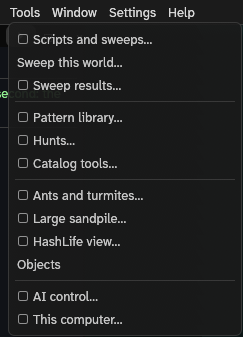
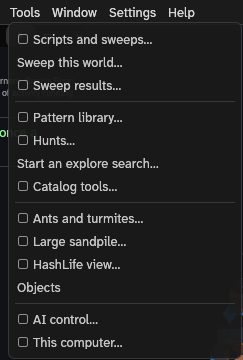
Book: closing windows from the keyboard, Ctrl+W, the arrows in setup's choices, and Tools -> Start an explore search... (#308, #309, #310)
- The keyboard guide: Esc in a floating pane and twice from a text box,
  Esc in a docked pane, Ctrl+W, the Close button last in Tab's order, and
  the arrows staying in their window and going one by one through setup's
  What it searches; its table remade by gen-shortcuts.py.
- Searching and the tour: Tools -> Start an explore search...; the tour's
  Tools menu picture redrawn (shots_tools_menu, headless).
- The changelog, How JETCARP is tested and the accessibility statement.
- MCP's copy of the book.

diff --git a/crates/jetcarp-mcp/resources/docs/guides/keyboard.md b/crates/jetcarp-mcp/resources/docs/guides/keyboard.md
@@ -31,15 +31,22 @@ menu is open.
 
 **Space** or **Enter** presses the button, ticks the box, chooses the item, or opens the list that
 has the keyboard; in an open list, the arrows move and Enter chooses. On a slider the arrows
-change its value; a number box takes typing once it has the keyboard.
+change its value; a number box takes typing once it has the keyboard. Elsewhere the arrows go to
+the nearest control that way, and stay in the window they start in: at the top of a floating
+window, ↑ leaves the keyboard where it is. In a list of check boxes, such as the setup window's
+*What it searches*, ↓ and ↑ go through the boxes one by one, as Tab and Shift+Tab do.
 
 **Esc** leaves a text box, closes a menu or a list, closes *Export animation* and the two
-confirmations, and closes the tool window whose control has the keyboard (Esc in one of its text
-boxes only leaves the box), the setup window among them. **Enter** confirms: *Export animation*
-opens with *Export…* holding the keyboard, each page of the setup window with its main button
-(*Next*, *Start*, *Close*), and each confirmation with its safe choice (*Keep it on*, *Save the
-softened version*). The photosensitive seizure warning waits for an answer: neither Esc nor Enter
-answers it for you.
+confirmations, and closes the tool window or floating pane whose control has the keyboard, the
+setup window among them. In one of its text boxes, the first Esc leaves the box and a second
+closes the window. In a docked pane, Esc takes the keyboard back to the grid. **Ctrl+W** (⌘W on
+macOS) closes the tool window or dialog that has the keyboard, from a text box too; in a window
+popped out to a window of its own, it brings it back into the main window, as closing it does.
+
+**Enter** confirms: *Export animation* opens with *Export…* holding the keyboard, each page of the
+setup window with its main button (*Next*, *Start*, *Close*), and each confirmation with its safe
+choice (*Keep it on*, *Save the softened version*). The photosensitive seizure warning waits for
+an answer: neither Esc nor Enter answers it for you.
 
 **The single-key shortcuts** (R, F, S, + and −) act whatever has the keyboard, except while you
 are typing in a text box; the function keys (F1, F6, F9 to F12) act even then. Space, Enter, Tab
@@ -47,6 +54,10 @@ and the arrows belong to the control that has the keyboard, so while one has it,
 rather than running the world: press Esc first, and Space runs and pauses again.
 
 ### Panes and tool windows
+
+Each floating tool window and pane has a close button, ×, at the right of its title bar: the last
+control Tab reaches in the window, named *Close* and the window's title (*Close Accessibility*)
+for screen readers. Esc and Ctrl+W close the window as it does.
 
 A pane's tab takes the keyboard like a button: Space or Enter shows its pane. The buttons at the
 right of each group of tabs hide the pane, pop it out to a window of its own, or float it. Every
@@ -113,7 +124,8 @@ a control); the function keys act everywhere.
 | <kbd>F10</kbd> | <kbd>F10</kbd> | The menu bar: opens File. ← and → move along it, ↓ goes into a menu, ← comes back out, Enter chooses, Esc closes |
 | <kbd>Space</kbd>, <kbd>Enter</kbd> | <kbd>Space</kbd>, <kbd>Return</kbd> | Press the button, tick the box, choose the item, open the list that has the keyboard |
 | <kbd>Arrow keys</kbd> | <kbd>Arrow keys</kbd> | Between controls; in a menu or list, between its items; on a slider, its value |
-| <kbd>Esc</kbd> | <kbd>Esc</kbd> | Leave a text box; close a menu, a list, a dialog, or the tool window that has the keyboard |
+| <kbd>Esc</kbd> | <kbd>Esc</kbd> | Leave a text box; close a menu, a list, a dialog, or the tool window that has the keyboard (from a text box, Esc twice); in a docked pane, back to the grid |
+| <kbd>Ctrl+W</kbd> | <kbd>⌘W</kbd> | Close the tool window or dialog that has the keyboard (a popped-out one goes back to the main window) |
 | <kbd>Shift+F10</kbd> | <kbd>⇧F10</kbd> | A Quick Start card's menu: rate it, hide it |
 | <kbd>Alt (held)</kbd> | <kbd>⌥ (held)</kbd> | Show the auto-hidden menu bar |
 

diff --git a/docs/src/guides/keyboard.md b/docs/src/guides/keyboard.md
@@ -31,15 +31,22 @@ menu is open.
 
 **Space** or **Enter** presses the button, ticks the box, chooses the item, or opens the list that
 has the keyboard; in an open list, the arrows move and Enter chooses. On a slider the arrows
-change its value; a number box takes typing once it has the keyboard.
+change its value; a number box takes typing once it has the keyboard. Elsewhere the arrows go to
+the nearest control that way, and stay in the window they start in: at the top of a floating
+window, ↑ leaves the keyboard where it is. In a list of check boxes, such as the setup window's
+*What it searches*, ↓ and ↑ go through the boxes one by one, as Tab and Shift+Tab do.
 
 **Esc** leaves a text box, closes a menu or a list, closes *Export animation* and the two
-confirmations, and closes the tool window whose control has the keyboard (Esc in one of its text
-boxes only leaves the box), the setup window among them. **Enter** confirms: *Export animation*
-opens with *Export…* holding the keyboard, each page of the setup window with its main button
-(*Next*, *Start*, *Close*), and each confirmation with its safe choice (*Keep it on*, *Save the
-softened version*). The photosensitive seizure warning waits for an answer: neither Esc nor Enter
-answers it for you.
+confirmations, and closes the tool window or floating pane whose control has the keyboard, the
+setup window among them. In one of its text boxes, the first Esc leaves the box and a second
+closes the window. In a docked pane, Esc takes the keyboard back to the grid. **Ctrl+W** (⌘W on
+macOS) closes the tool window or dialog that has the keyboard, from a text box too; in a window
+popped out to a window of its own, it brings it back into the main window, as closing it does.
+
+**Enter** confirms: *Export animation* opens with *Export…* holding the keyboard, each page of the
+setup window with its main button (*Next*, *Start*, *Close*), and each confirmation with its safe
+choice (*Keep it on*, *Save the softened version*). The photosensitive seizure warning waits for
+an answer: neither Esc nor Enter answers it for you.
 
 **The single-key shortcuts** (R, F, S, + and −) act whatever has the keyboard, except while you
 are typing in a text box; the function keys (F1, F6, F9 to F12) act even then. Space, Enter, Tab
@@ -47,6 +54,10 @@ and the arrows belong to the control that has the keyboard, so while one has it,
 rather than running the world: press Esc first, and Space runs and pauses again.
 
 ### Panes and tool windows
+
+Each floating tool window and pane has a close button, ×, at the right of its title bar: the last
+control Tab reaches in the window, named *Close* and the window's title (*Close Accessibility*)
+for screen readers. Esc and Ctrl+W close the window as it does.
 
 A pane's tab takes the keyboard like a button: Space or Enter shows its pane. The buttons at the
 right of each group of tabs hide the pane, pop it out to a window of its own, or float it. Every
@@ -113,7 +124,8 @@ a control); the function keys act everywhere.
 | <kbd>F10</kbd> | <kbd>F10</kbd> | The menu bar: opens File. ← and → move along it, ↓ goes into a menu, ← comes back out, Enter chooses, Esc closes |
 | <kbd>Space</kbd>, <kbd>Enter</kbd> | <kbd>Space</kbd>, <kbd>Return</kbd> | Press the button, tick the box, choose the item, open the list that has the keyboard |
 | <kbd>Arrow keys</kbd> | <kbd>Arrow keys</kbd> | Between controls; in a menu or list, between its items; on a slider, its value |
-| <kbd>Esc</kbd> | <kbd>Esc</kbd> | Leave a text box; close a menu, a list, a dialog, or the tool window that has the keyboard |
+| <kbd>Esc</kbd> | <kbd>Esc</kbd> | Leave a text box; close a menu, a list, a dialog, or the tool window that has the keyboard (from a text box, Esc twice); in a docked pane, back to the grid |
+| <kbd>Ctrl+W</kbd> | <kbd>⌘W</kbd> | Close the tool window or dialog that has the keyboard (a popped-out one goes back to the main window) |
 | <kbd>Shift+F10</kbd> | <kbd>⇧F10</kbd> | A Quick Start card's menu: rate it, hide it |
 | <kbd>Alt (held)</kbd> | <kbd>⌥ (held)</kbd> | Show the auto-hidden menu bar |
 

diff --git a/crates/jetcarp-mcp/resources/docs/getting-started/tour.md b/crates/jetcarp-mcp/resources/docs/getting-started/tour.md
@@ -126,7 +126,7 @@ and *Window → Reset layout* puts everything back:
 | *Tiling* | The *Tiling* pane, *Family*, *Edges*, *Tiling catalog*, *Tile editor…*, *Unit cell editor…*, *Paste tile JSON…* |
 | *CA* | *Add from catalog*, *Add by notation…*, *Load rule table…*, the *CAs* and *Sequence* panes, *Palettes…* |
 | *Seed* | *Seed every CA*, *Random cells in every CA*, each automaton's seed, *Clear every CA*, *Reset*, the *Reseed* pane, *Reseed now*, *Auto reseed* |
-| *Tools* | The tool windows below, *Sweep this world…*, the *Objects* pane |
+| *Tools* | The tool windows below, *Sweep this world…*, *Start an explore search…*, the *Objects* pane |
 | *Window* | Every pane and tool window, *Hide all panes*, *Reset layout*, *Displays* |
 | *Settings* | *Safety…*: the [strobe guard](../guides/strobe-guard.md), what it is doing, and its switches; *Accessibility…*: reduced motion, the high-contrast theme, light or dark, and the palettes for scenes that name none ([Accessibility settings](../guides/accessibility-settings.md)) |
 | *Help* | *Setup…* (the setup window again), *Keyboard shortcuts…* (F1), *About JETCARP…* |
@@ -140,14 +140,15 @@ Space, Enter and the arrows belong to whatever control has the keyboard.
 
 Most tools open in windows of their own. Each floats over the world, and its ↗ button (or
 *In its own window* under its name in the *Window* menu) moves it to a separate window that can go
-on another monitor. Esc closes the tool window whose control has the keyboard.
+on another monitor. Its × closes it, and so do Esc and Ctrl+W (⌘W on macOS) while one of its
+controls has the keyboard; the × is its last control, reached with Tab.
 
-<img src="../images/getting-started/tour-tools-menu.webp" alt="The Tools menu: Scripts and sweeps, Sweep this world, Sweep results, Pattern library, Hunts, Catalog tools, Ants and turmites, Large sandpile, HashLife view, Objects, AI control and This computer" width="244">
+<img src="../images/getting-started/tour-tools-menu.webp" alt="The Tools menu: Scripts and sweeps, Sweep this world, Sweep results, Pattern library, Hunts, Start an explore search, Catalog tools, Ants and turmites, Large sandpile, HashLife view, Objects, AI control and This computer" width="244">
 
 | Window | Menu | What it is for |
 | --- | --- | --- |
 | *Pattern library* | *Tools* | Every pattern your searches found and your packs brought: browse, curate, paste into the world, promote to the Quick Start ([The pattern library](../guides/pattern-library.md)) |
-| *Hunts* | *Tools* | Start, watch, stop and resume searches, with each job's progress and finds ([Searching](../guides/searching.md#in-the-app)) |
+| *Hunts* | *Tools* | Start, watch, stop and resume searches, with each job's progress and finds; *Tools → Start an explore search…* opens it at the explore search's form ([Searching](../guides/searching.md#in-the-app)) |
 | *Ants and turmites* | *Tools* | Search for ant and turmite highways ([Langton's ant and turmites](../automata/turmites.md), [Searching](../guides/searching.md#the-other-strategies)) |
 | *Large sandpile* | *Tools* | Settle millions of sandpile grains on an unbounded grid ([Large sandpiles](../guides/large-sandpiles.md)) |
 | *HashLife view* | *Tools* | This world's pattern on the unbounded plane, jumped any distance ([HashLife](../guides/hashlife.md#in-the-app)) |

diff --git a/docs/src/getting-started/tour.md b/docs/src/getting-started/tour.md
@@ -126,7 +126,7 @@ and *Window → Reset layout* puts everything back:
 | *Tiling* | The *Tiling* pane, *Family*, *Edges*, *Tiling catalog*, *Tile editor…*, *Unit cell editor…*, *Paste tile JSON…* |
 | *CA* | *Add from catalog*, *Add by notation…*, *Load rule table…*, the *CAs* and *Sequence* panes, *Palettes…* |
 | *Seed* | *Seed every CA*, *Random cells in every CA*, each automaton's seed, *Clear every CA*, *Reset*, the *Reseed* pane, *Reseed now*, *Auto reseed* |
-| *Tools* | The tool windows below, *Sweep this world…*, the *Objects* pane |
+| *Tools* | The tool windows below, *Sweep this world…*, *Start an explore search…*, the *Objects* pane |
 | *Window* | Every pane and tool window, *Hide all panes*, *Reset layout*, *Displays* |
 | *Settings* | *Safety…*: the [strobe guard](../guides/strobe-guard.md), what it is doing, and its switches; *Accessibility…*: reduced motion, the high-contrast theme, light or dark, and the palettes for scenes that name none ([Accessibility settings](../guides/accessibility-settings.md)) |
 | *Help* | *Setup…* (the setup window again), *Keyboard shortcuts…* (F1), *About JETCARP…* |
@@ -140,14 +140,15 @@ Space, Enter and the arrows belong to whatever control has the keyboard.
 
 Most tools open in windows of their own. Each floats over the world, and its ↗ button (or
 *In its own window* under its name in the *Window* menu) moves it to a separate window that can go
-on another monitor. Esc closes the tool window whose control has the keyboard.
+on another monitor. Its × closes it, and so do Esc and Ctrl+W (⌘W on macOS) while one of its
+controls has the keyboard; the × is its last control, reached with Tab.
 
-<img src="../images/getting-started/tour-tools-menu.webp" alt="The Tools menu: Scripts and sweeps, Sweep this world, Sweep results, Pattern library, Hunts, Catalog tools, Ants and turmites, Large sandpile, HashLife view, Objects, AI control and This computer" width="244">
+<img src="../images/getting-started/tour-tools-menu.webp" alt="The Tools menu: Scripts and sweeps, Sweep this world, Sweep results, Pattern library, Hunts, Start an explore search, Catalog tools, Ants and turmites, Large sandpile, HashLife view, Objects, AI control and This computer" width="244">
 
 | Window | Menu | What it is for |
 | --- | --- | --- |
 | *Pattern library* | *Tools* | Every pattern your searches found and your packs brought: browse, curate, paste into the world, promote to the Quick Start ([The pattern library](../guides/pattern-library.md)) |
-| *Hunts* | *Tools* | Start, watch, stop and resume searches, with each job's progress and finds ([Searching](../guides/searching.md#in-the-app)) |
+| *Hunts* | *Tools* | Start, watch, stop and resume searches, with each job's progress and finds; *Tools → Start an explore search…* opens it at the explore search's form ([Searching](../guides/searching.md#in-the-app)) |
 | *Ants and turmites* | *Tools* | Search for ant and turmite highways ([Langton's ant and turmites](../automata/turmites.md), [Searching](../guides/searching.md#the-other-strategies)) |
 | *Large sandpile* | *Tools* | Settle millions of sandpile grains on an unbounded grid ([Large sandpiles](../guides/large-sandpiles.md)) |
 | *HashLife view* | *Tools* | This world's pattern on the unbounded plane, jumped any distance ([HashLife](../guides/hashlife.md#in-the-app)) |

diff --git a/crates/jetcarp-mcp/resources/docs/about/changelog.md b/crates/jetcarp-mcp/resources/docs/about/changelog.md
@@ -375,6 +375,9 @@ day later (0.4.2: 17 November here, 18 November there).
 
 ### Changed
 
+- ***Tools → Start an explore search…*** (#310) opens the *Hunts* window at its explore form, with
+  the keyboard on the form's first box. The form was only a button inside the *Hunts* window, which
+  the menus didn't name; the button stays. ([Searching](../guides/searching.md#in-the-app))
 - **An explore search says, as it starts, that it isn't reproducible:** `jetcarp search explore`
   and `jetcarp quickstart build` print it (unless `--quiet`), the *Hunts* window's explore form
   shows it, and MCP's description of the strategy says it. What it finds depends on the computer
@@ -472,6 +475,20 @@ day later (0.4.2: 17 November here, 18 November there).
   ring, drawn round the whole scrolled text, showed nowhere. A control in view now counts only
   inside the part of a background in view, a thin bar (a scroll bar) never makes a widget a
   background, and the ring of a large widget goes round the part of it in view.
+- **Every tool window and dialog closes from the keyboard** (#308). Once Esc had left a text box,
+  nothing held the keyboard and Esc did nothing more; a floating pane didn't close with Esc at all;
+  and the title bar's ×, egui's own, came first in Tab's order, named only "Close window". Esc now
+  closes the tool window or floating pane whose control has the keyboard (from a text box, a second
+  Esc), the × is the window's own last control, named *Close* and the window's title, and
+  **Ctrl+W** (⌘W on macOS) closes the tool window or dialog that has the keyboard, or brings a
+  popped-out one back into the main window. In a docked pane, Esc takes the keyboard back to the
+  grid, and Esc is *Cancel* in *Over this machine's limit*.
+  ([Using the app from the keyboard](../guides/keyboard.md#moving-about))
+- **Setup's *What it searches* keeps the keyboard** (#309). ↓ jumped from row to row of its wrapped
+  check boxes, passing most of them by, and ↑ from the top of the page took the keyboard to the
+  main window's controls behind the setup window, where its ring couldn't be seen. ↓ and ↑ now go
+  through the choices one by one, as Tab and Shift+Tab do, and an arrow key never takes the
+  keyboard out of the floating window it is in.
 - **A world over the limit is asked about, never made smaller to fit.** The *Tiling* pane's
   *Width × height* fields stopped each side at 16,384, so 100,000 × 100,000 squares (about 75 GB)
   became 16,384 × 16,384 (about 2 GB) and were built with nothing said; the fields take any size

diff --git a/docs/src/about/changelog.md b/docs/src/about/changelog.md
@@ -375,6 +375,9 @@ day later (0.4.2: 17 November here, 18 November there).
 
 ### Changed
 
+- ***Tools → Start an explore search…*** (#310) opens the *Hunts* window at its explore form, with
+  the keyboard on the form's first box. The form was only a button inside the *Hunts* window, which
+  the menus didn't name; the button stays. ([Searching](../guides/searching.md#in-the-app))
 - **An explore search says, as it starts, that it isn't reproducible:** `jetcarp search explore`
   and `jetcarp quickstart build` print it (unless `--quiet`), the *Hunts* window's explore form
   shows it, and MCP's description of the strategy says it. What it finds depends on the computer
@@ -472,6 +475,20 @@ day later (0.4.2: 17 November here, 18 November there).
   ring, drawn round the whole scrolled text, showed nowhere. A control in view now counts only
   inside the part of a background in view, a thin bar (a scroll bar) never makes a widget a
   background, and the ring of a large widget goes round the part of it in view.
+- **Every tool window and dialog closes from the keyboard** (#308). Once Esc had left a text box,
+  nothing held the keyboard and Esc did nothing more; a floating pane didn't close with Esc at all;
+  and the title bar's ×, egui's own, came first in Tab's order, named only "Close window". Esc now
+  closes the tool window or floating pane whose control has the keyboard (from a text box, a second
+  Esc), the × is the window's own last control, named *Close* and the window's title, and
+  **Ctrl+W** (⌘W on macOS) closes the tool window or dialog that has the keyboard, or brings a
+  popped-out one back into the main window. In a docked pane, Esc takes the keyboard back to the
+  grid, and Esc is *Cancel* in *Over this machine's limit*.
+  ([Using the app from the keyboard](../guides/keyboard.md#moving-about))
+- **Setup's *What it searches* keeps the keyboard** (#309). ↓ jumped from row to row of its wrapped
+  check boxes, passing most of them by, and ↑ from the top of the page took the keyboard to the
+  main window's controls behind the setup window, where its ring couldn't be seen. ↓ and ↑ now go
+  through the choices one by one, as Tab and Shift+Tab do, and an arrow key never takes the
+  keyboard out of the floating window it is in.
 - **A world over the limit is asked about, never made smaller to fit.** The *Tiling* pane's
   *Width × height* fields stopped each side at 16,384, so 100,000 × 100,000 squares (about 75 GB)
   became 16,384 × 16,384 (about 2 GB) and were built with nothing said; the fields take any size

diff --git a/crates/jetcarp-mcp/resources/docs/about/testing.md b/crates/jetcarp-mcp/resources/docs/about/testing.md
@@ -126,8 +126,14 @@ JETCARP has over a thousand automated tests, beside the code (`#[cfg(test)]`) an
   Quick Start, scroll each into view and draw the focus ring round it, in the standard and the
   high-contrast theme; F6 must visit the menu bar, each group of panes, the grid, the status line
   and each floating window, and Shift+F6 go back; F10, the arrows, Enter and Esc must work the
-  menus and close dialogs and tool windows; the grid's cell cursor must draw, erase, select and
-  move a pattern. In every window, every control must have a role, a name that says something and
+  menus and close dialogs and tool windows; every tool window and dialog, and a floating pane, must
+  close with Esc, with Ctrl+W and through its *Close* button, the last control Tab reaches in it,
+  and Esc in a docked pane must take the keyboard back to the grid; in the setup window's *What it
+  searches*, at three window sizes, ↓ and ↑, Tab and Shift+Tab must go through every choice and
+  back, an arrow must never take the keyboard out of the window, and Space must tick the choice
+  with the keyboard; *Tools → Start an explore search…*, chosen with F10, the arrows and Enter, must
+  open the explore form with the keyboard on its first box; the grid's cell cursor must draw,
+  erase, select and move a pattern. In every window, every control must have a role, a name that says something and
   a value that reads, and the status line must be a live region. Each runs in a process of its
   own with scratch folders (`crates/jetcarp-app/src/app/keyboard_tests.rs`); the cell cursor's
   next cell is checked on thirteen tilings (`cell_cursor.rs`), and an ignored test reads the tree

diff --git a/docs/src/about/testing.md b/docs/src/about/testing.md
@@ -126,8 +126,14 @@ JETCARP has over a thousand automated tests, beside the code (`#[cfg(test)]`) an
   Quick Start, scroll each into view and draw the focus ring round it, in the standard and the
   high-contrast theme; F6 must visit the menu bar, each group of panes, the grid, the status line
   and each floating window, and Shift+F6 go back; F10, the arrows, Enter and Esc must work the
-  menus and close dialogs and tool windows; the grid's cell cursor must draw, erase, select and
-  move a pattern. In every window, every control must have a role, a name that says something and
+  menus and close dialogs and tool windows; every tool window and dialog, and a floating pane, must
+  close with Esc, with Ctrl+W and through its *Close* button, the last control Tab reaches in it,
+  and Esc in a docked pane must take the keyboard back to the grid; in the setup window's *What it
+  searches*, at three window sizes, ↓ and ↑, Tab and Shift+Tab must go through every choice and
+  back, an arrow must never take the keyboard out of the window, and Space must tick the choice
+  with the keyboard; *Tools → Start an explore search…*, chosen with F10, the arrows and Enter, must
+  open the explore form with the keyboard on its first box; the grid's cell cursor must draw,
+  erase, select and move a pattern. In every window, every control must have a role, a name that says something and
   a value that reads, and the status line must be a live region. Each runs in a process of its
   own with scratch folders (`crates/jetcarp-app/src/app/keyboard_tests.rs`); the cell cursor's
   next cell is checked on thirteen tilings (`cell_cursor.rs`), and an ignored test reads the tree

diff --git a/crates/jetcarp-mcp/resources/docs/guides/searching.md b/crates/jetcarp-mcp/resources/docs/guides/searching.md
@@ -326,11 +326,12 @@ stores replays exactly, wherever it is replayed.
 ## In the app
 
 *Tools → Hunts…* starts, watches, stops and resumes searches, and lists every job with its progress
-and finds. Its *Start an explore search…* has a checkbox for each group of tilings and each rule
-family, with *All*, *None* and (for the families) *Default* beside them, and the search's minutes,
-seed, GPU and threads. It opens with everything but isotropic rules ticked, which is the default
-search; untick boxes to search narrowly. Tab reaches every box, and screen readers name each one by
-its words. *Tools → Ants and turmites…* and *Tools → Large sandpile…* do the same for their
+and finds. *Tools → Start an explore search…* opens it at the explore search's form, with the
+keyboard on the form's first box; the *Hunts* window's own *Start an explore search…* button opens
+the same form. The form has a checkbox for each group of tilings and each rule family, with *All*,
+*None* and (for the families) *Default* beside them, and the search's minutes, seed, GPU and
+threads. It opens with everything but isotropic rules ticked, which is the default search; untick
+boxes to search narrowly. Tab reaches every box, and screen readers name each one by its words. *Tools → Ants and turmites…* and *Tools → Large sandpile…* do the same for their
 strategies, *Tools → Catalog tools…* runs collisions and the evolutionary search, and
 *Tools → Pattern library…* browses what all of them found. A job started in the app can be stopped
 or resumed from the command line, and the other way round. In the *Hunts* window, a job whose

diff --git a/docs/src/guides/searching.md b/docs/src/guides/searching.md
@@ -326,11 +326,12 @@ stores replays exactly, wherever it is replayed.
 ## In the app
 
 *Tools → Hunts…* starts, watches, stops and resumes searches, and lists every job with its progress
-and finds. Its *Start an explore search…* has a checkbox for each group of tilings and each rule
-family, with *All*, *None* and (for the families) *Default* beside them, and the search's minutes,
-seed, GPU and threads. It opens with everything but isotropic rules ticked, which is the default
-search; untick boxes to search narrowly. Tab reaches every box, and screen readers name each one by
-its words. *Tools → Ants and turmites…* and *Tools → Large sandpile…* do the same for their
+and finds. *Tools → Start an explore search…* opens it at the explore search's form, with the
+keyboard on the form's first box; the *Hunts* window's own *Start an explore search…* button opens
+the same form. The form has a checkbox for each group of tilings and each rule family, with *All*,
+*None* and (for the families) *Default* beside them, and the search's minutes, seed, GPU and
+threads. It opens with everything but isotropic rules ticked, which is the default search; untick
+boxes to search narrowly. Tab reaches every box, and screen readers name each one by its words. *Tools → Ants and turmites…* and *Tools → Large sandpile…* do the same for their
 strategies, *Tools → Catalog tools…* runs collisions and the evolutionary search, and
 *Tools → Pattern library…* browses what all of them found. A job started in the app can be stopped
 or resumed from the command line, and the other way round. In the *Hunts* window, a job whose

diff --git a/crates/jetcarp-mcp/resources/docs/about/accessibility.md b/crates/jetcarp-mcp/resources/docs/about/accessibility.md
@@ -109,8 +109,9 @@ The app can be used from the keyboard alone, as far as the toolkit it's built wi
 
 - **Moving about.** Tab and Shift+Tab reach every control in every window, in the order the window
   shows them, and scroll each into view. F6 and Shift+F6 move between the menu bar, each group of
-  panes, the grid, the status line and each floating window. F10 opens the menus. Esc closes the
-  tool window that has the keyboard, and dialogs open with their main button ready for Enter.
+  panes, the grid, the status line and each floating window. F10 opens the menus. Esc and Ctrl+W
+  (⌘W) close the tool window that has the keyboard, its × is a control Tab reaches, and dialogs
+  open with their main button ready for Enter.
 - **A ring in every theme** shows which control has the keyboard: two points wide in the standard
   themes, three in high contrast, at a contrast of at least 3:1 against every background.
 - **The grid.** With the keyboard on the grid, the arrow keys move a cursor from cell to cell on any

diff --git a/docs/src/about/accessibility.md b/docs/src/about/accessibility.md
@@ -109,8 +109,9 @@ The app can be used from the keyboard alone, as far as the toolkit it's built wi
 
 - **Moving about.** Tab and Shift+Tab reach every control in every window, in the order the window
   shows them, and scroll each into view. F6 and Shift+F6 move between the menu bar, each group of
-  panes, the grid, the status line and each floating window. F10 opens the menus. Esc closes the
-  tool window that has the keyboard, and dialogs open with their main button ready for Enter.
+  panes, the grid, the status line and each floating window. F10 opens the menus. Esc and Ctrl+W
+  (⌘W) close the tool window that has the keyboard, its × is a control Tab reaches, and dialogs
+  open with their main button ready for Enter.
 - **A ring in every theme** shows which control has the keyboard: two points wide in the standard
   themes, three in high contrast, at a contrast of at least 3:1 against every background.
 - **The grid.** With the keyboard on the grid, the arrow keys move a cursor from cell to cell on any
